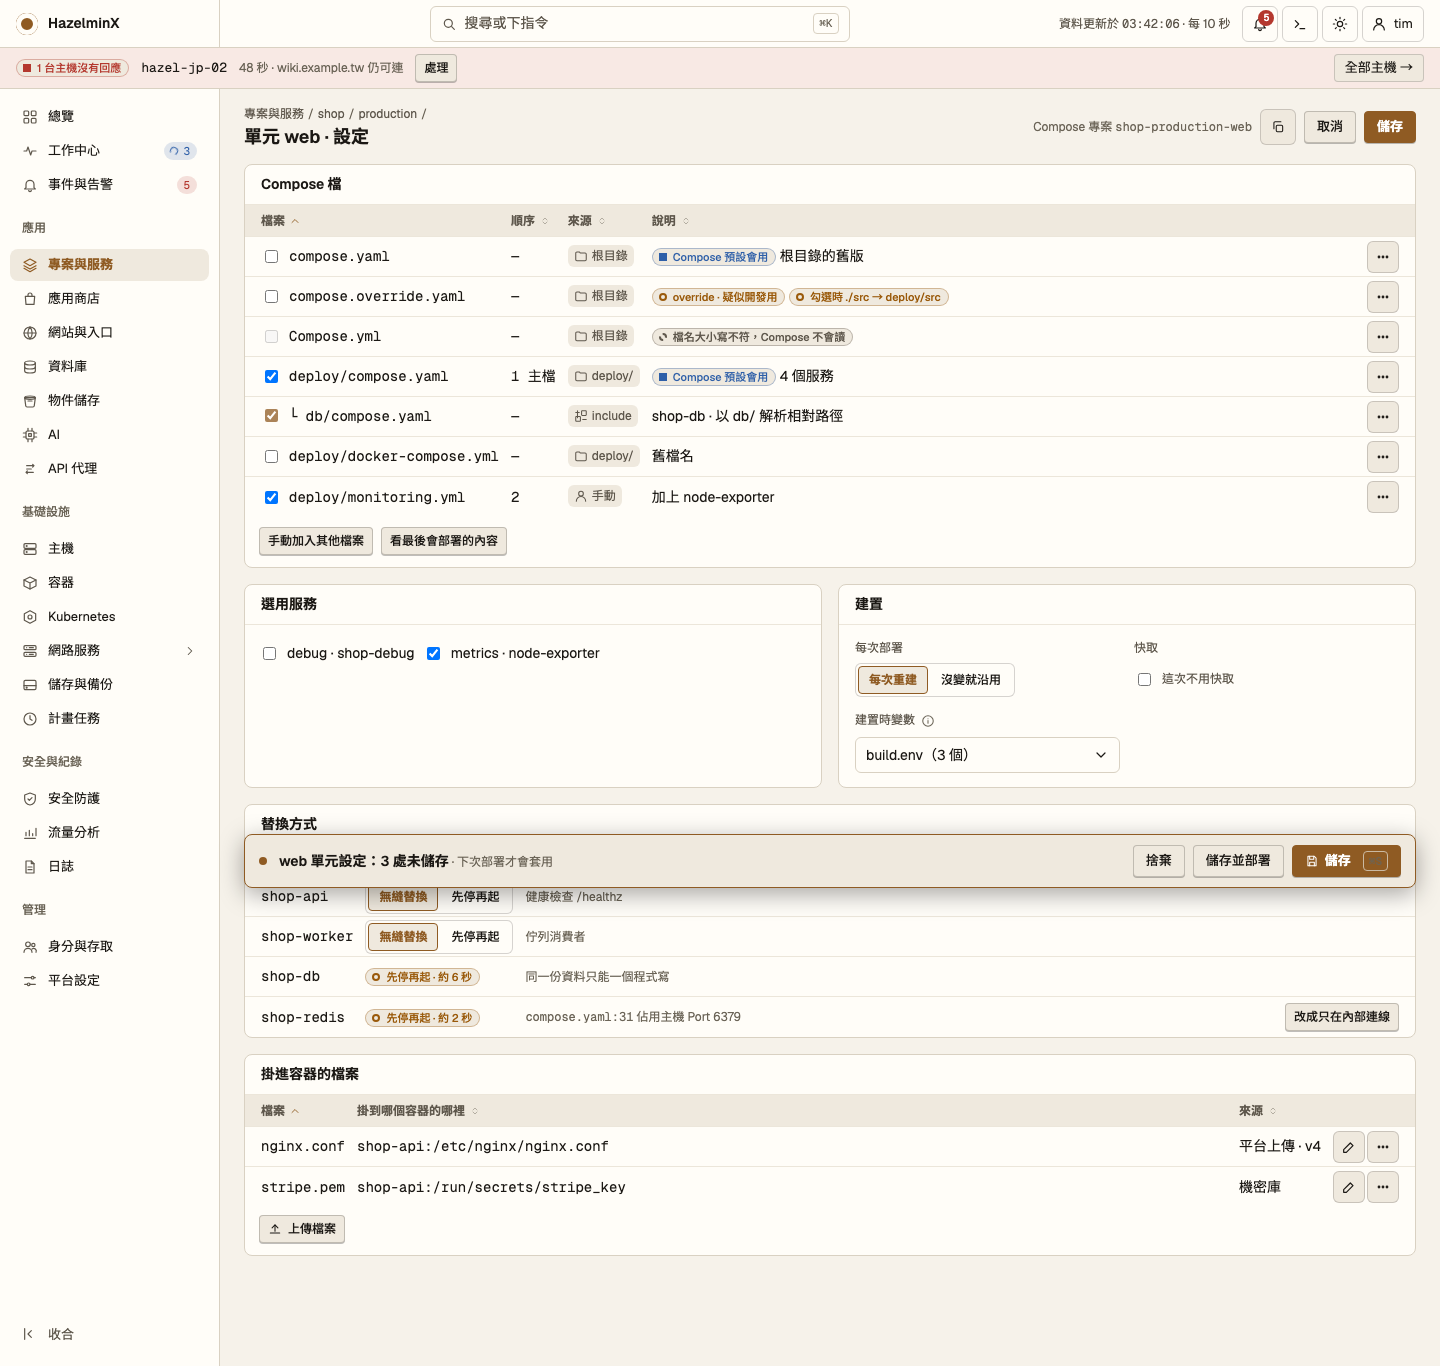
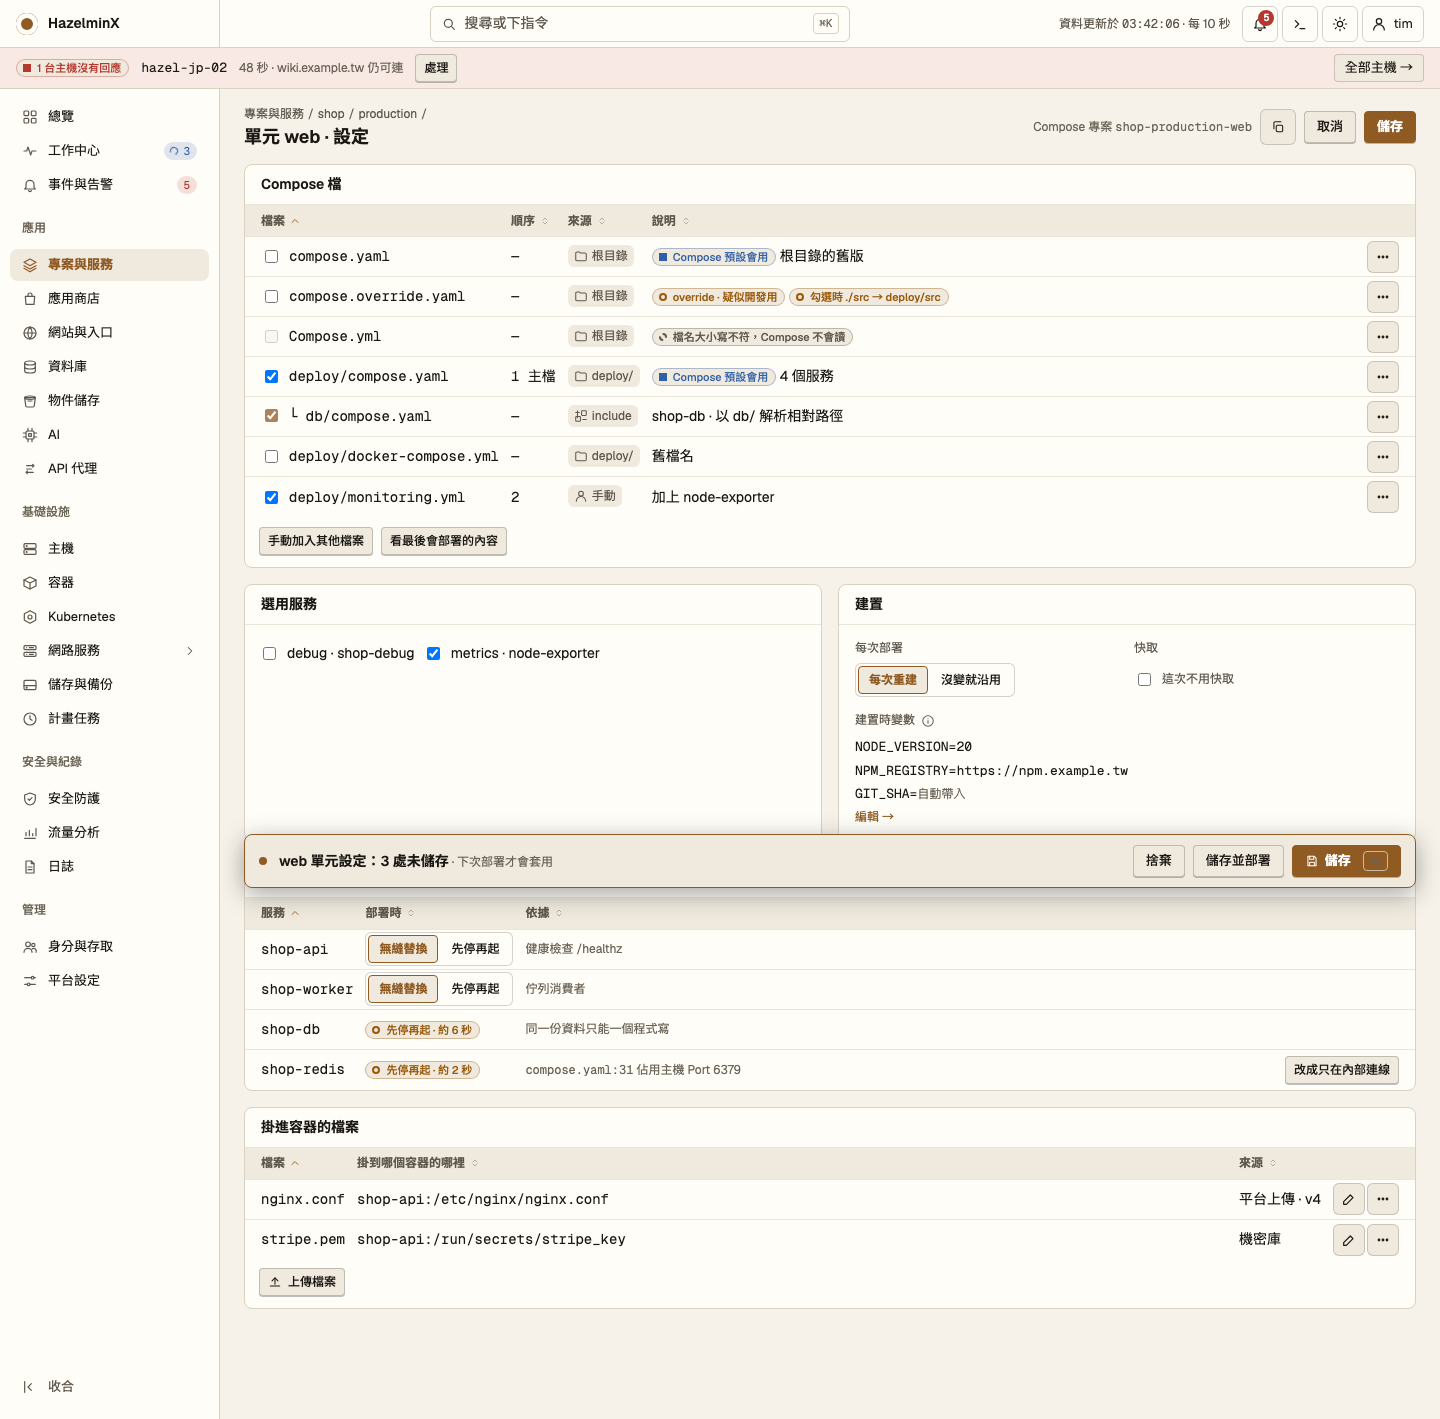
design: list build variables inline on the unit config board

diff --git a/design/screens/UnitConfig.dc.html b/design/screens/UnitConfig.dc.html
@@ -508,7 +508,7 @@ body{margin:0}
       <div style="padding:10px 14px 12px" class="wrap"><button type="button" class="btn sm">手動加入其他檔案</button><button type="button" class="btn sm" data-tip="把勾選的檔案照順序疊起來，再加上平台的覆寫，顯示真正會部署的完整 compose">看最後會部署的內容</button></div></section><div class="cg"><section class="panel"><div class="ph"><h2>選用服務</h2></div>
       <div style="padding:12px 14px;display:flex;flex-direction:column;gap:8px">
         <div class="wrap"><label style="display:flex;gap:8px;align-items:center;min-height:32px"><input type="checkbox">debug · shop-debug</label><label style="display:flex;gap:8px;align-items:center;min-height:32px"><input type="checkbox" checked>metrics · node-exporter</label></div>
-      </div></section><section class="panel"><div class="ph"><h2>建置</h2></div><div style="padding:14px 16px;display:grid;grid-template-columns:repeat(auto-fit,minmax(min(240px,100%),1fr));gap:14px"><div class="field"><label>每次部署</label><div class="range" role="group" aria-label="建置" style="flex-wrap:wrap;width:max-content;max-width:100%"><button type="button" class="btn on" aria-pressed="true">每次重建</button><button type="button" class="btn" aria-pressed="false">沒變就沿用</button></div></div><div class="field"><label>快取</label><label style="display:flex;gap:8px;align-items:center;min-height:32px"><input type="checkbox">這次不用快取</label></div><div class="field"><label>建置時變數 <span class="hint" tabindex="0" role="img" aria-label="以 build args 提供，不會進到執行中的容器" data-tip="以 build args 提供，不會進到執行中的容器"><svg viewBox="0 0 24 24" width="14" height="14" fill="none" stroke="currentColor" stroke-width="1.8" stroke-linecap="round" stroke-linejoin="round" aria-hidden="true"><circle cx="12" cy="12" r="9"/><path d="M12 11v5M12 8h.01"/></svg></span></label><div class="inp"><span style="flex:1;min-width:0;overflow-wrap:anywhere">build.env（3 個）</span><svg viewBox="0 0 24 24" width="16" height="16" fill="none" stroke="currentColor" stroke-width="1.8" stroke-linecap="round" stroke-linejoin="round" aria-hidden="true"><path d="m6 9 6 6 6-6"/></svg></div></div></div></section></div><section class="panel"><div class="ph"><h2>替換方式</h2></div>
+      </div></section><section class="panel"><div class="ph"><h2>建置</h2></div><div style="padding:14px 16px;display:grid;grid-template-columns:repeat(auto-fit,minmax(min(240px,100%),1fr));gap:14px"><div class="field"><label>每次部署</label><div class="range" role="group" aria-label="建置" style="flex-wrap:wrap;width:max-content;max-width:100%"><button type="button" class="btn on" aria-pressed="true">每次重建</button><button type="button" class="btn" aria-pressed="false">沒變就沿用</button></div></div><div class="field"><label>快取</label><label style="display:flex;gap:8px;align-items:center;min-height:32px"><input type="checkbox">這次不用快取</label></div><div class="field"><label>建置時變數 <span class="hint" tabindex="0" role="img" aria-label="只在建置映像時用，不會進到執行中的容器" data-tip="只在建置映像時用，不會進到執行中的容器"><svg viewBox="0 0 24 24" width="14" height="14" fill="none" stroke="currentColor" stroke-width="1.8" stroke-linecap="round" stroke-linejoin="round" aria-hidden="true"><circle cx="12" cy="12" r="9"/><path d="M12 11v5M12 8h.01"/></svg></span></label><div style="display:flex;flex-direction:column;gap:4px;font-size:13px"><span class="mono">NODE_VERSION=20</span><span class="mono">NPM_REGISTRY=https://npm.example.tw</span><span class="mono">GIT_SHA=<span class="note">自動帶入</span></span><a href="ProjectEnv.dc.html" style="color:var(--hazel);font-size:12px">編輯 →</a></div></div></div></section></div><section class="panel"><div class="ph"><h2>替換方式</h2></div>
       <div class="tw" style="--tc:auto auto var(--k3,minmax(min(160px,34%),1fr)) auto"><div class="row hd r0"><span class=""><span class="sortable on">服務 <svg viewBox="0 0 24 24" width="12" height="12" fill="none" stroke="currentColor" stroke-width="1.8" stroke-linecap="round" stroke-linejoin="round" aria-hidden="true"><path d="m6 15 6-6 6 6"/></svg></span></span><span class=""><span class="sortable">部署時 <svg viewBox="0 0 24 24" width="12" height="12" fill="none" stroke="currentColor" stroke-width="1.8" stroke-linecap="round" stroke-linejoin="round" aria-hidden="true"><path d="m8 10 4-4 4 4"/><path d="m8 14 4 4 4-4"/></svg></span></span><span class="c3"><span class="sortable">依據 <svg viewBox="0 0 24 24" width="12" height="12" fill="none" stroke="currentColor" stroke-width="1.8" stroke-linecap="round" stroke-linejoin="round" aria-hidden="true"><path d="m8 10 4-4 4 4"/><path d="m8 14 4 4 4-4"/></svg></span></span><span class=""></span></div>
       <div class="row r0"><span class="mono">shop-api</span><span><div class="range" role="group" aria-label="shop-api" style="flex-wrap:wrap;width:max-content;max-width:100%"><button type="button" class="btn on" aria-pressed="true">無縫替換</button><button type="button" class="btn" aria-pressed="false">先停再起</button></div></span><span class="c3 note">健康檢查 /healthz</span><span></span></div>
       <div class="row r0"><span class="mono">shop-worker</span><span><div class="range" role="group" aria-label="shop-worker" style="flex-wrap:wrap;width:max-content;max-width:100%"><button type="button" class="btn on" aria-pressed="true">無縫替換</button><button type="button" class="btn" aria-pressed="false">先停再起</button></div></span><span class="c3 note">佇列消費者</span><span></span></div>

diff --git a/design/tools/build_screens.py b/design/tools/build_screens.py
@@ -4410,7 +4410,7 @@ def unit_config() -> str:
     build = _fp("建置", _grid(
         _fld("每次部署", _seg(["每次重建", "沒變就沿用"], 0, "建置")),
         _fld("快取", _cb("這次不用快取", False)),
-        _fld("建置時變數", _dd("build.env（3 個）"), "以 build args 提供，不會進到執行中的容器")))
+        _fld("建置時變數", '<div style="display:flex;flex-direction:column;gap:4px;font-size:13px"><span class="mono">NODE_VERSION=20</span><span class="mono">NPM_REGISTRY=https://npm.example.tw</span><span class="mono">GIT_SHA=<span class="note">自動帶入</span></span><a href="ProjectEnv.dc.html" style="color:var(--hazel);font-size:12px">編輯 →</a></div>', "只在建置映像時用，不會進到執行中的容器")))
     cfiles = _fp("掛進容器的檔案", f"""
       <div class="row hd"><span>檔案</span><span>掛到哪個容器的哪裡</span><span class="c3">來源</span><span></span></div>
       <div class="row"><span class="mono">nginx.conf</span><span class="mono">shop-api:/etc/nginx/nginx.conf</span><span class="c3">平台上傳 · v4</span><span>{U.actions(["rename", "more"])}</span></div>
